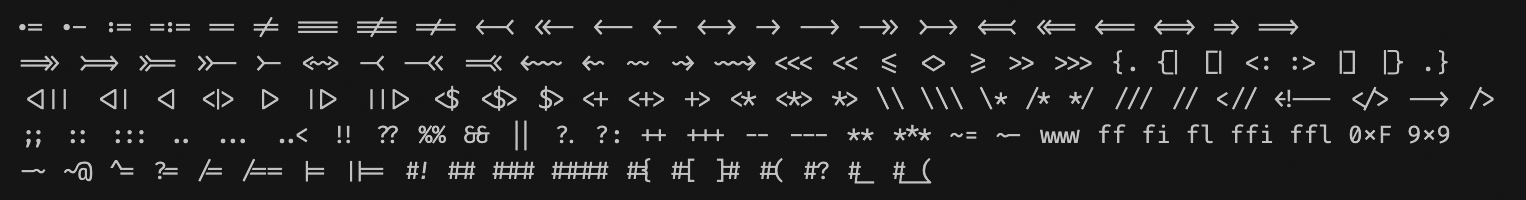
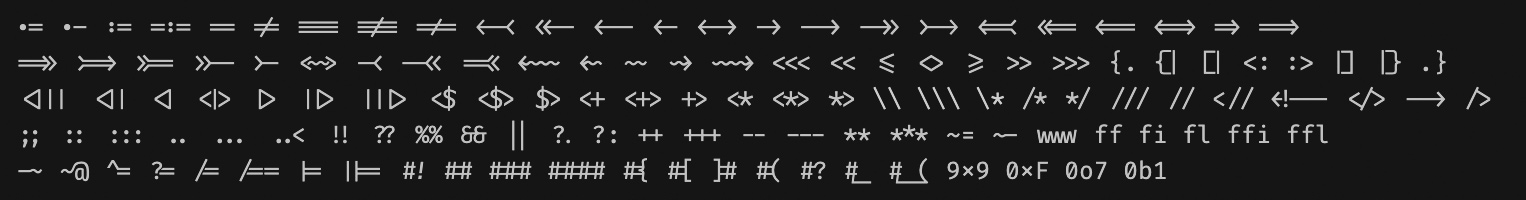
Update CHANGELOG and README, including ligature images. Add octal and binary prefix ligature support.

diff --git a/src/configuration.ts b/src/configuration.ts
@@ -50,8 +50,8 @@ const baseLigatures = String.raw`
   .= .- := =:= == != === !== =/= <-< <<- <-- <- <-> -> --> ->> >-> <=< <<= <== <=> => ==>
   =>> >=> >>= >>- >- <~> -< -<< =<< <~~ <~ ~~ ~> ~~> <<< << <= <> >= >> >>> {. {| [| <: :> |] |} .}
   <||| <|| <| <|> |> ||> |||> <$ <$> $> <+ <+> +> <* <*> *> \\ \\\ \* /* */ /// // <// <!-- </> --> />
-  ;; :: ::: .. ... ..< !! ?? %% && || ?. ?: ++ +++ -- --- ** *** ~= ~- www ff fi fl ffi ffl 0xF 9x9
-  -~ ~@ ^= ?= /= /== |= ||= #! ## ### #### #{ #[ ]# #( #? #_ #_(
+  ;; :: ::: .. ... ..< !! ?? %% && || ?. ?: ++ +++ -- --- ** *** ~= ~- www ff fi fl ffi ffl
+  -~ ~@ ^= ?= /= /== |= ||= #! ## ### #### #{ #[ ]# #( #? #_ #_( 9x9 0xF 0o7 0b1
   <==== ==== ====> <====> <--- ---> <---> <~~~ ~~~> <~~~>
 
 `.trim().split(/\s+/);
@@ -69,13 +69,15 @@ const patternSubstitutions: any = {
   '~~~>': '~{3,}>',
   '<~~~>': '<~{3,}>',
   '0xF': '0x[0-9a-fA-F]',
+  '0o7': '0o[0-7]',
+  '0b1': '0b[01]',
   '9x9': '\\dx\\d',
   'www': '\\bwww\\b'
 };
 /* eslint-enable quote-props */
 
 let disregarded: string[] = [];
-const baseDisabledLigatures = new Set<string>(['ff', 'fi', 'fl', 'ffi', 'ffl', '0xF', '9x9']);
+const baseDisabledLigatures = new Set<string>(['ff', 'fi', 'fl', 'ffi', 'ffl', '0xF', '0o7', '0b1', '9x9']);
 const baseLigatureContexts = new Set<string>(['operator', 'comment_marker', 'punctuation', 'number']);
 const baseLigaturesByContext = {
   number: {
@@ -86,6 +88,8 @@ const baseLigaturesByContext = {
 };
 
 baseLigaturesByContext.number.ligatures.delete('0xF');
+baseLigaturesByContext.number.ligatures.delete('0o7');
+baseLigaturesByContext.number.ligatures.delete('0b1');
 
 let defaultConfiguration: InternalConfig;
 const configurationsByLanguage = new Map<string, InternalConfig>();

diff --git a/src/extension.ts b/src/extension.ts
@@ -172,9 +172,10 @@ export function activate(context: ExtensionContext): void {
               ligature = ligature.substr(0, scope.text.length);
             }
 
-            // 0x followed by a hex digit as a special case: the 0x part might be the lead-in to a numeric constant,
+            // 0x followed by a hex digit is a special case: the 0x part might be the lead-in to a numeric constant,
             // but treated as a separate keyword.
-            if (/^0x[0-9a-f]$/i.test(ligature) && category === 'keyword' && index + ligature.length < line.length) {
+            // The same applies to 0o followed by an octal digit, or 0b followed by a binary digit.
+            if (/^0(x[0-9a-fA-F]|o[0-7]|b[01])$/.test(ligature) && category === 'keyword' && index + ligature.length < line.length) {
               const nextScope = scopeInfoApi.getScopeAt(document, new Position(i, index + ligature.length));
 
               if (nextScope.category === 'number')

diff --git a/test/suite/extension.test.ts b/test/suite/extension.test.ts
@@ -152,5 +152,13 @@ suite('Extension Tests', () => {
     expect(isCorrectlyDecorated(decorations, 9, 29, 2, breakDebug), 'ts !=').to.be.ok;
 
     expect(isCorrectlyDecorated(decorations, 10, 19, 2, highlightLigature), 'ts =>').to.be.ok;
+
+    expect(isCorrectlyDecorated(decorations, 12, 15, 3, highlightLigature), 'ts =>').to.be.ok;
+    expect(isCorrectlyDecorated(decorations, 12, 20, 3, highlightLigature), 'ts =>').to.be.ok;
+    expect(isCorrectlyDecorated(decorations, 12, 26, 3, highlightLigature), 'ts =>').to.be.ok;
+
+    expect(isCorrectlyDecorated(decorations, 13, 16, 3, highlightLigature), 'ts =>').to.not.be.ok;
+    expect(isCorrectlyDecorated(decorations, 13, 21, 3, highlightLigature), 'ts =>').to.not.be.ok;
+    expect(isCorrectlyDecorated(decorations, 13, 27, 3, highlightLigature), 'ts =>').to.not.be.ok;
   });
 });

diff --git a/test/suite/sample-project/sample.ts b/test/suite/sample-project/sample.ts
@@ -8,4 +8,7 @@ export function foo(): void {
   // eslint-disable-next-line eqeqeq
   if (a <= b && a >= c && b != c)
     setTimeout(() => console.log('a <= b && a << c && b != c'));
+
+  console.log(0xA, 0o65, 0b1011);
+  console.log('0xA, 0o65, 0b1011');
 }

diff --git a/CHANGELOG.md b/CHANGELOG.md
@@ -1,8 +1,9 @@
 ## 1.1.0
 
-* Support for new indefinite-length ligatures.
+* Support for indefinite-length arrow ligatures (as available in the Iosevka font).
 * Optional simple true/false settings to completely enable, or completely suppress, all ligatures in all contexts for a given language.
 * Handles language-specific fenced code blocks in Markdown as the specified language.
+* For any font which may provide such, support for octal (`0o7`) and binary (`0b1`) number prefix ligatures, similar to the `0xF` hexadecimal prefix ligature previously supported.
 
 ## 1.0.2
 
